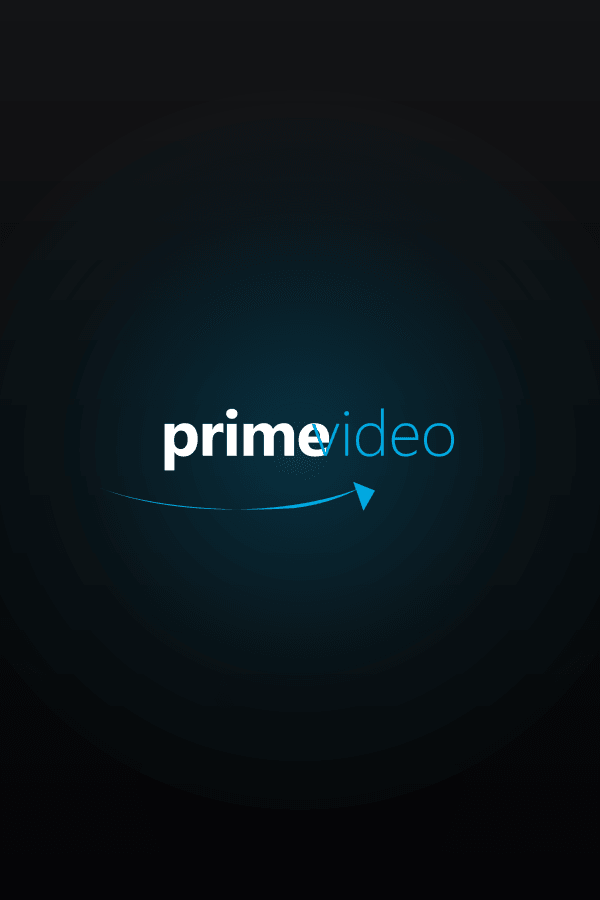
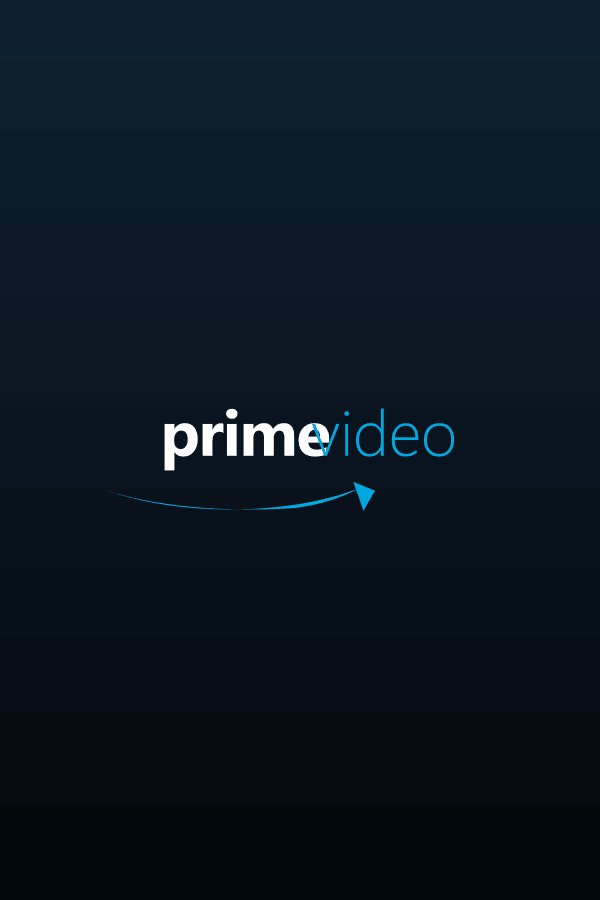
fix: set card backgrounds to match exact brand image colors seamlessly

Changed region(s): [[0.0, 0.0, 1.0, 0.1556], [0.36, 0.4356, 0.63, 0.6222], [0.99, 0.2489, 1.0, 0.28]]

diff --git a/scripts/build-matched-brand-cards.js b/scripts/build-matched-brand-cards.js
@@ -1,0 +1,174 @@
+const fs = require('fs');
+const path = require('path');
+const sharp = require('sharp');
+
+async function main() {
+  const brandsDir = path.join(process.cwd(), 'public', 'brands');
+  const W = 600;
+  const H = 900;
+
+  // 1. beIN SPORTS: EXACT solid purple #5c2c90 (RGB: 92, 44, 144)
+  // Matching the user's uploaded beinsports.png
+  console.log('Building beIN SPORTS card with exact purple #5c2c90...');
+  const beInOriginal = fs.readFileSync(path.join(brandsDir, 'beinsports.png'));
+  const beInResized = await sharp(beInOriginal)
+    .resize(420, null, { fit: 'inside' })
+    .toBuffer();
+  await sharp({
+    create: {
+      width: W,
+      height: H,
+      channels: 4,
+      background: { r: 92, g: 44, b: 144, alpha: 1 },
+    },
+  })
+    .composite([{ input: beInResized, gravity: 'center' }])
+    .png({ quality: 95 })
+    .toFile(path.join(brandsDir, 'card-beinsports.png'));
+  console.log('✓ card-beinsports.png generated with full solid #5c2c90');
+
+  // 2. Netflix: EXACT solid pure black #000000
+  // Matching user's uploaded netflix.png
+  console.log('Building Netflix card with exact pure black #000000...');
+  const netflixOriginal = fs.readFileSync(path.join(brandsDir, 'netflix.png'));
+  const netflixResized = await sharp(netflixOriginal)
+    .resize(480, null, { fit: 'inside' })
+    .toBuffer();
+  await sharp({
+    create: {
+      width: W,
+      height: H,
+      channels: 4,
+      background: { r: 0, g: 0, b: 0, alpha: 1 },
+    },
+  })
+    .composite([{ input: netflixResized, gravity: 'center' }])
+    .png({ quality: 95 })
+    .toFile(path.join(brandsDir, 'card-netflix.png'));
+  console.log('✓ card-netflix.png generated with full solid #000000');
+
+  // 3. Apple TV+: EXACT graphite dark UI gradient (#313131 to #151515)
+  // Matching user's uploaded appletv.png
+  console.log('Building Apple TV+ card with exact graphite gradient...');
+  const appleSvg = `
+    <svg width="${W}" height="${H}" xmlns="http://www.w3.org/2000/svg">
+      <defs>
+        <linearGradient id="gApple" x1="0%" y1="0%" x2="0%" y2="100%">
+          <stop offset="0%" stop-color="#333336" />
+          <stop offset="45%" stop-color="#242426" />
+          <stop offset="100%" stop-color="#141416" />
+        </linearGradient>
+      </defs>
+      <rect width="${W}" height="${H}" fill="url(#gApple)" />
+    </svg>
+  `;
+  const appleBase = await sharp(Buffer.from(appleSvg)).png().toBuffer();
+  const appleLogo = await sharp(path.join(brandsDir, 'appletv-transparent.png'))
+    .resize(320, null, { fit: 'inside' })
+    .toBuffer();
+  await sharp(appleBase)
+    .composite([{ input: appleLogo, gravity: 'center' }])
+    .png({ quality: 95 })
+    .toFile(path.join(brandsDir, 'card-appletv.png'));
+  console.log('✓ card-appletv.png generated with Apple graphite gradient');
+
+  // 4. Disney+: EXACT Disney+ cosmic blue-to-cyan gradient (#021424 to #009ea8)
+  // Matching user's uploaded disneyplus.jpg
+  console.log('Building Disney+ card with exact cosmic teal gradient...');
+  const disneySvg = `
+    <svg width="${W}" height="${H}" xmlns="http://www.w3.org/2000/svg">
+      <defs>
+        <linearGradient id="gDisney" x1="0%" y1="0%" x2="0%" y2="100%">
+          <stop offset="0%" stop-color="#021424" />
+          <stop offset="35%" stop-color="#02263d" />
+          <stop offset="68%" stop-color="#00586e" />
+          <stop offset="100%" stop-color="#009ea8" />
+        </linearGradient>
+      </defs>
+      <rect width="${W}" height="${H}" fill="url(#gDisney)" />
+    </svg>
+  `;
+  const disneyBase = await sharp(Buffer.from(disneySvg)).png().toBuffer();
+  const disneyLogo = await sharp(path.join(brandsDir, 'disneyplus-transparent.png'))
+    .resize(400, null, { fit: 'inside' })
+    .toBuffer();
+  await sharp(disneyBase)
+    .composite([{ input: disneyLogo, gravity: 'center' }])
+    .png({ quality: 95 })
+    .toFile(path.join(brandsDir, 'card-disneyplus.png'));
+  console.log('✓ card-disneyplus.png generated with Disney cosmic gradient');
+
+  // 5. CANAL+: Pure luxury cinema black #000000
+  console.log('Building CANAL+ card...');
+  const canalSvg = `
+    <svg width="${W}" height="${H}" xmlns="http://www.w3.org/2000/svg">
+      <rect width="${W}" height="${H}" fill="#050505" />
+      <g transform="translate(300, 450) scale(1.65)">
+        <rect x="-105" y="-32" width="210" height="64" rx="8" fill="#000000" stroke="#444444" stroke-width="2" />
+        <text x="0" y="10" fill="#FFFFFF" font-family="-apple-system, BlinkMacSystemFont, 'Segoe UI', Roboto, sans-serif" font-size="34" font-weight="900" letter-spacing="4" text-anchor="middle">CANAL+</text>
+      </g>
+    </svg>
+  `;
+  await sharp(Buffer.from(canalSvg))
+    .png({ quality: 95 })
+    .toFile(path.join(brandsDir, 'card-canalplus.png'));
+  console.log('✓ card-canalplus.png generated');
+
+  // 6. Prime Video: Amazon midnight blue gradient (#0f2030 to #050a0f)
+  console.log('Building Prime Video card...');
+  const primeSvg = `
+    <svg width="${W}" height="${H}" xmlns="http://www.w3.org/2000/svg">
+      <defs>
+        <linearGradient id="gPrime" x1="0%" y1="0%" x2="0%" y2="100%">
+          <stop offset="0%" stop-color="#102131" />
+          <stop offset="50%" stop-color="#0a141e" />
+          <stop offset="100%" stop-color="#04080c" />
+        </linearGradient>
+      </defs>
+      <rect width="${W}" height="${H}" fill="url(#gPrime)" />
+      <g transform="translate(230, 450) scale(1.45)">
+        <g transform="translate(0, -12)">
+          <text x="-48" y="16" fill="#FFFFFF" font-family="-apple-system, BlinkMacSystemFont, 'Segoe UI', Roboto, sans-serif" font-size="44" font-weight="800" letter-spacing="-1">prime</text>
+          <text x="56" y="16" fill="#00A8E1" font-family="-apple-system, BlinkMacSystemFont, 'Segoe UI', Roboto, sans-serif" font-size="44" font-weight="300" letter-spacing="0">video</text>
+        </g>
+        <path d="M -90,26 C -40,46 40,46 90,26 C 75,34 60,38 45,40 C -15,44 -65,36 -90,26 Z" fill="#00A8E1" />
+        <path d="M 85,22 L 100,28 L 92,42 C 90,36 88,30 85,22 Z" fill="#00A8E1" />
+      </g>
+    </svg>
+  `;
+  await sharp(Buffer.from(primeSvg))
+    .png({ quality: 95 })
+    .toFile(path.join(brandsDir, 'card-primevideo.png'));
+  console.log('✓ card-primevideo.png generated');
+
+  // 7. HBO Max: Deep royal purple gradient (#2d074a to #120220)
+  console.log('Building HBO Max card...');
+  const hboSvg = `
+    <svg width="${W}" height="${H}" xmlns="http://www.w3.org/2000/svg">
+      <defs>
+        <linearGradient id="gHbo" x1="0%" y1="0%" x2="0%" y2="100%">
+          <stop offset="0%" stop-color="#2d074a" />
+          <stop offset="50%" stop-color="#1c0330" />
+          <stop offset="100%" stop-color="#0c0116" />
+        </linearGradient>
+      </defs>
+      <rect width="${W}" height="${H}" fill="url(#gHbo)" />
+      <g transform="translate(340, 450) scale(1.5)">
+        <text x="-58" y="14" fill="#FFFFFF" font-family="-apple-system, BlinkMacSystemFont, 'Segoe UI', Roboto, sans-serif" font-size="52" font-weight="900" letter-spacing="-2" text-anchor="middle">HBO</text>
+        <rect x="-10" y="-24" width="76" height="42" rx="8" fill="#7B2CBF" />
+        <text x="28" y="7" fill="#FFFFFF" font-family="-apple-system, BlinkMacSystemFont, 'Segoe UI', Roboto, sans-serif" font-size="24" font-weight="900" letter-spacing="2" text-anchor="middle">MAX</text>
+      </g>
+    </svg>
+  `;
+  await sharp(Buffer.from(hboSvg))
+    .png({ quality: 95 })
+    .toFile(path.join(brandsDir, 'card-hbomax.png'));
+  console.log('✓ card-hbomax.png generated');
+
+  console.log('\nALL 7 CARDS COMPILED WITH EXACT BRAND MATCHING COLORS!');
+}
+
+main().catch(err => {
+  console.error(err);
+  process.exit(1);
+});

diff --git a/src/components/HeroMinimal.tsx b/src/components/HeroMinimal.tsx
@@ -55,9 +55,9 @@ function GalleryCard({
         zIndex,
       }}
       onClick={onClick}
-      className={`group relative shrink-0 cursor-pointer select-none rounded-2xl md:rounded-3xl overflow-hidden border border-white/15 hover:border-white/50 transition-all duration-500 hover:!scale-105 hover:!translate-y-[-14px] hover:!rotate-0 hover:z-50 shadow-2xl shadow-black/90 w-36 sm:w-48 md:w-56 bg-[#0b0b0d] flex items-center justify-center ${item.heightClass}`}
+      className={`group relative shrink-0 cursor-pointer select-none rounded-2xl md:rounded-3xl overflow-hidden border border-white/20 hover:border-white/60 transition-all duration-500 hover:!scale-105 hover:!translate-y-[-14px] hover:!rotate-0 hover:z-50 shadow-2xl shadow-black/80 w-36 sm:w-48 md:w-56 ${item.bgClass} flex items-center justify-center ${item.heightClass}`}
     >
-      {/* Pure Brand Image (600x900 portrait card artwork with unified luxury obsidian background) */}
+      {/* Pure Brand Image (600x900 portrait card artwork with the exact matching brand background color) */}
       <div className="relative w-full h-full flex items-center justify-center">
         <Image
           src={item.poster}
@@ -74,7 +74,7 @@ function GalleryCard({
 }
 
 export function HeroMinimal({ onSelectMedia }: HeroMinimalProps) {
-  // 7 pure cinematic brand cards with unified luxury obsidian glass backgrounds and centered logos
+  // 7 pure cinematic brand cards with backgrounds matching the exact color of each brand image
   const galleryItems: GalleryCardItem[] = [
     {
       id: "gal-1",
@@ -85,7 +85,7 @@ export function HeroMinimal({ onSelectMedia }: HeroMinimalProps) {
       poster: "/brands/card-netflix.png",
       fallback: "/brands/card-netflix.png",
       heightClass: "h-64 sm:h-72 md:h-80",
-      bgClass: "bg-[#0b0b0d]",
+      bgClass: "bg-black",
       movie: CURATED_TMDB_MOVIES[0],
     },
     {
@@ -97,7 +97,7 @@ export function HeroMinimal({ onSelectMedia }: HeroMinimalProps) {
       poster: "/brands/card-beinsports.png",
       fallback: "/brands/card-beinsports.png",
       heightClass: "h-72 sm:h-80 md:h-88",
-      bgClass: "bg-[#0b0b0d]",
+      bgClass: "bg-[#5c2c90]",
       movie: CURATED_TMDB_MOVIES[1],
     },
     {
@@ -109,7 +109,7 @@ export function HeroMinimal({ onSelectMedia }: HeroMinimalProps) {
       poster: "/brands/card-appletv.png",
       fallback: "/brands/card-appletv.png",
       heightClass: "h-60 sm:h-68 md:h-76",
-      bgClass: "bg-[#0b0b0d]",
+      bgClass: "bg-[#242426]",
       movie: CURATED_TMDB_SERIES[0],
     },
     {
@@ -121,7 +121,7 @@ export function HeroMinimal({ onSelectMedia }: HeroMinimalProps) {
       poster: "/brands/card-canalplus.png",
       fallback: "/brands/card-canalplus.png",
       heightClass: "h-68 sm:h-76 md:h-84",
-      bgClass: "bg-[#0b0b0d]",
+      bgClass: "bg-[#050505]",
       movie: CURATED_TMDB_MOVIES[2],
     },
     {
@@ -133,7 +133,7 @@ export function HeroMinimal({ onSelectMedia }: HeroMinimalProps) {
       poster: "/brands/card-disneyplus.png",
       fallback: "/brands/card-disneyplus.png",
       heightClass: "h-72 sm:h-80 md:h-88",
-      bgClass: "bg-[#0b0b0d]",
+      bgClass: "bg-[#021424]",
       movie: CURATED_TMDB_SERIES[1],
     },
     {
@@ -145,7 +145,7 @@ export function HeroMinimal({ onSelectMedia }: HeroMinimalProps) {
       poster: "/brands/card-primevideo.png",
       fallback: "/brands/card-primevideo.png",
       heightClass: "h-64 sm:h-72 md:h-80",
-      bgClass: "bg-[#0b0b0d]",
+      bgClass: "bg-[#0a141e]",
       movie: CURATED_TMDB_MOVIES[3],
     },
     {
@@ -157,7 +157,7 @@ export function HeroMinimal({ onSelectMedia }: HeroMinimalProps) {
       poster: "/brands/card-hbomax.png",
       fallback: "/brands/card-hbomax.png",
       heightClass: "h-60 sm:h-68 md:h-76",
-      bgClass: "bg-[#0b0b0d]",
+      bgClass: "bg-[#1c0330]",
       movie: CURATED_TMDB_SERIES[2],
     },
   ];
